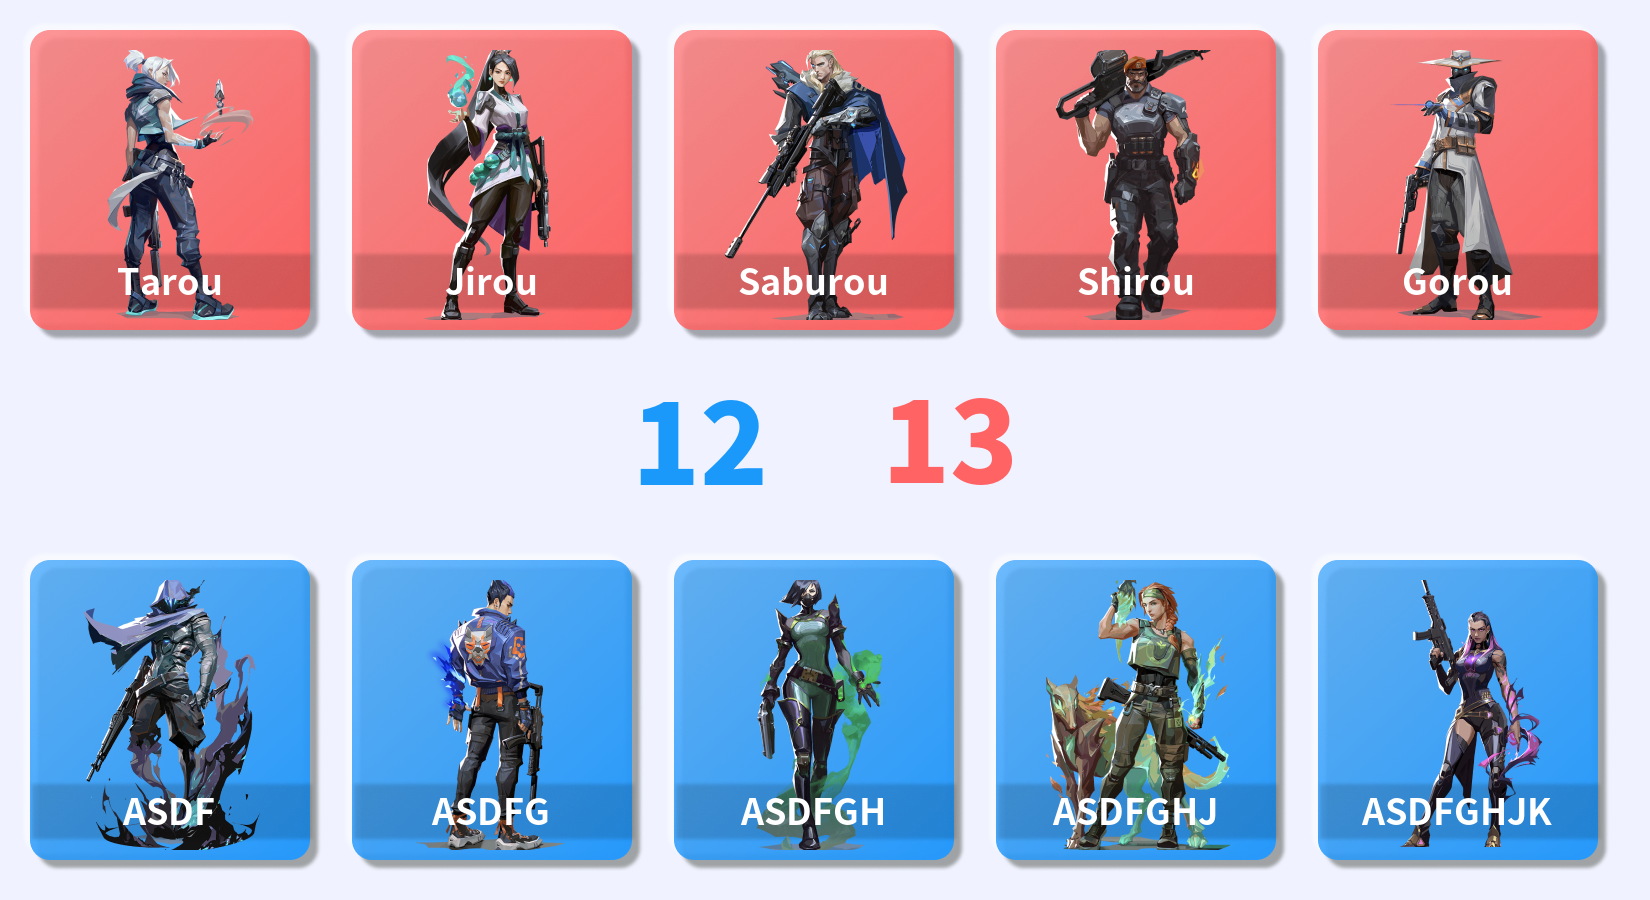
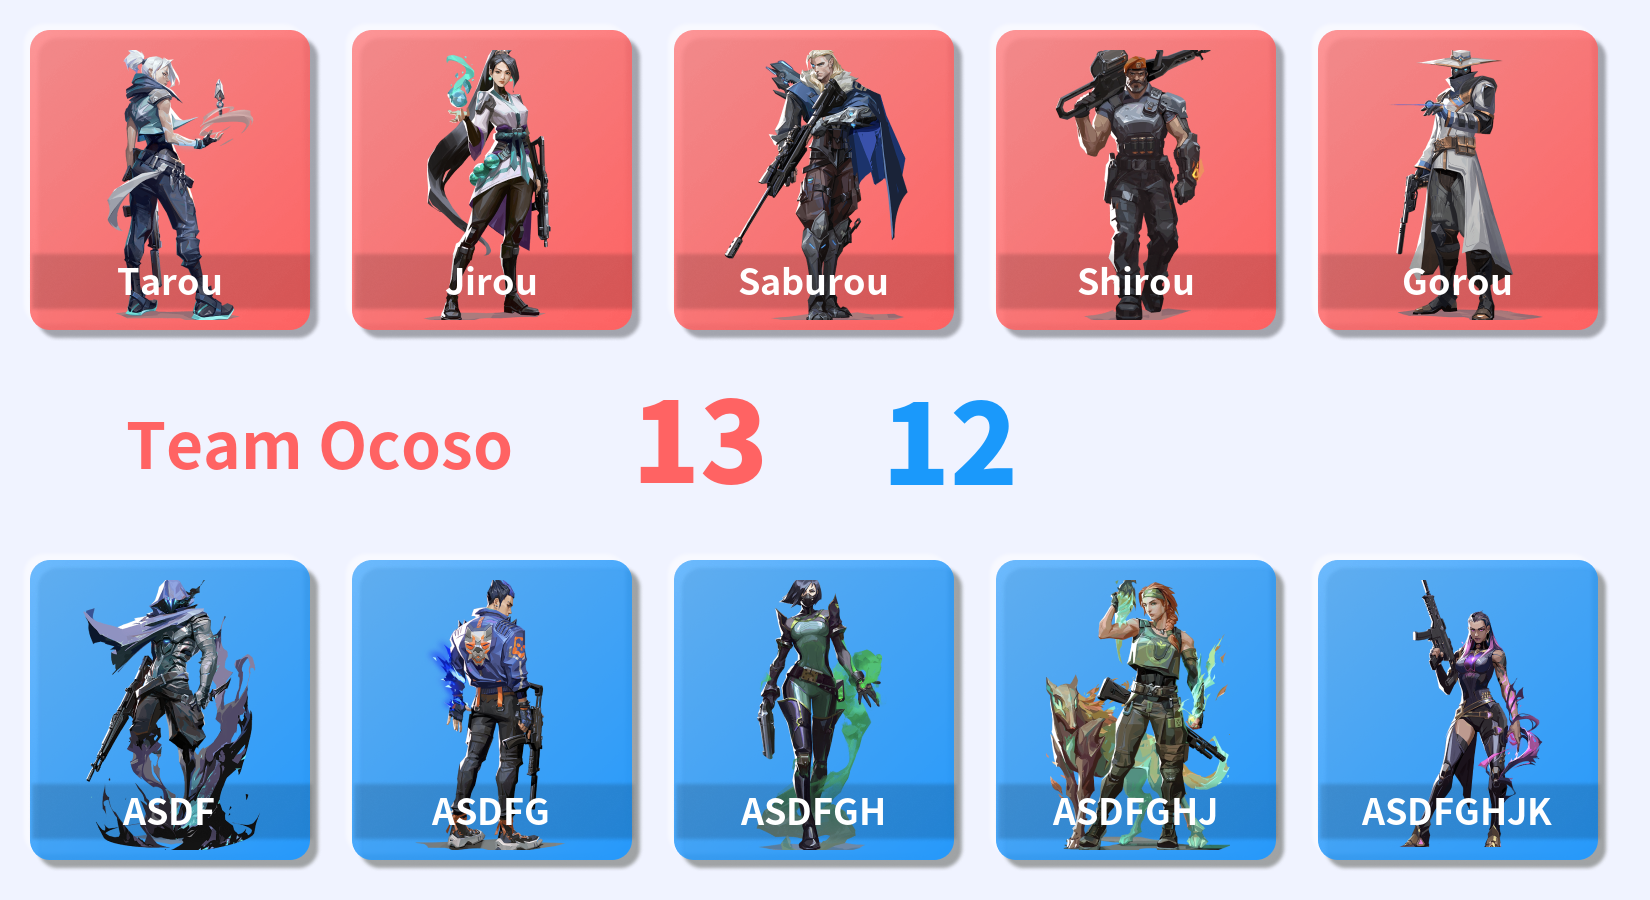
feat: paste_rteam_name

Changed region(s): [[0.0618, 0.4667, 0.3091, 0.5289], [0.5255, 0.4356, 0.6182, 0.56], [0.3709, 0.4356, 0.4636, 0.56]]

diff --git a/valo_generator.py b/valo_generator.py
@@ -81,8 +81,10 @@ class ValoGenerator:
             blank = self.paste_dark_overlay(blank, i*(self.card_width+20), self.margin_blay)
             blank = self.paste_name(blank, self.bnames[i], i*(self.card_width+20), self.margin_blay)
         
-        blank = self.paste_rscore(blank, 13, 950, 485)
-        blank = self.paste_bscore(blank, 12, 700, 485)
+        blank = self.paste_rscore(blank, 13, 700, 485)
+        blank = self.paste_bscore(blank, 12, 950, 485)
+
+        blank = self.paste_rteam_name(blank, "Team Ocoso", 320, 470)
         
         cv2.imwrite("blank.png", blank)
 
@@ -177,6 +179,20 @@ class ValoGenerator:
             fontFace=fontPIL,
             fontScale=112,
             color=(251,153,26)
+        )
+
+        return base
+
+    def paste_rteam_name(self, base, name, x, y):
+        fontPIL = "Noto_Sans_JP/NotoSansJP-Bold.otf"
+
+        base = cv2_putText(
+            img = base,
+            text=name,
+            org=(x, y),
+            fontFace=fontPIL,
+            fontScale=64,
+            color=(99,99,255)
         )
 
         return base
